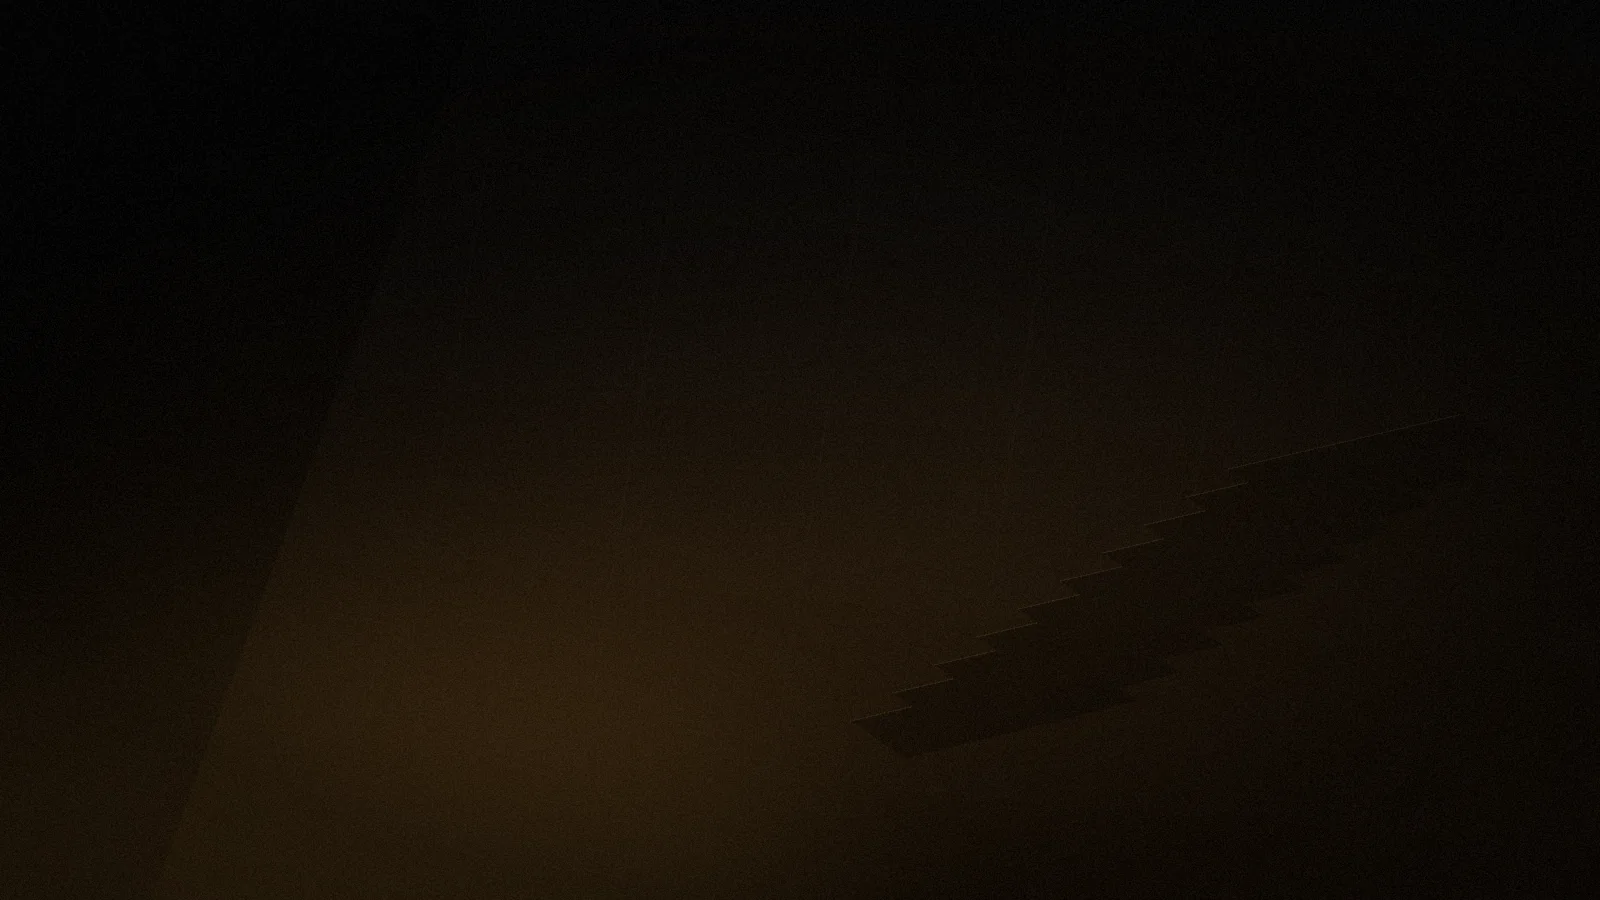
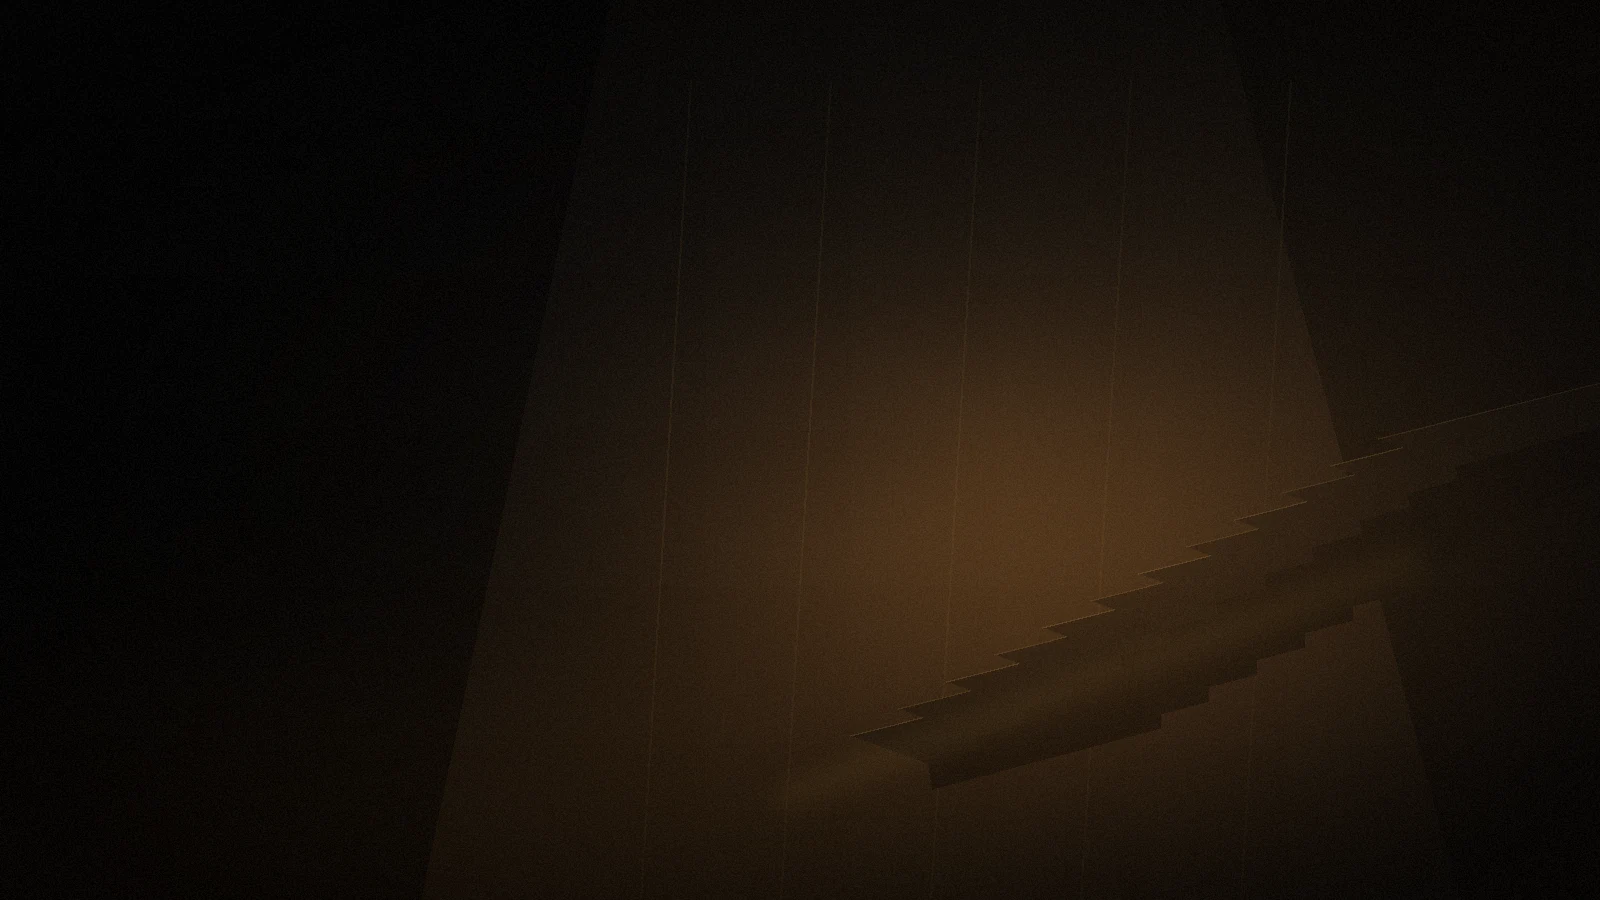
Clean calculator preview diagrams and background

Changed region(s): [[0.4688, 0.28, 0.9062, 0.8711], [0.0938, 0.56, 0.3125, 1.0], [0.0312, 0.9022, 0.0625, 0.9644]]

diff --git a/docs/calculator-stepwise-preview.css b/docs/calculator-stepwise-preview.css
@@ -45,7 +45,7 @@ body::after {
 
 body::before {
   background:
-    linear-gradient(180deg, rgba(0, 0, 0, 0.68) 0%, rgba(0, 0, 0, 0.55) 46%, rgba(0, 0, 0, 0.74) 100%),
+    linear-gradient(180deg, rgba(0, 0, 0, 0.58) 0%, rgba(0, 0, 0, 0.48) 46%, rgba(0, 0, 0, 0.68) 100%),
     url("./assets/calculator-preview/calculator-premium-bg.webp") center / cover no-repeat,
     linear-gradient(135deg, #030302 0%, #11100d 54%, #050403 100%);
   z-index: -2;
@@ -53,9 +53,9 @@ body::before {
 
 body::after {
   background:
-    radial-gradient(ellipse at 50% 50%, transparent 0%, transparent 48%, rgba(0, 0, 0, 0.58) 100%),
+    radial-gradient(ellipse at 50% 50%, transparent 0%, transparent 48%, rgba(0, 0, 0, 0.48) 100%),
     radial-gradient(circle at 16% 92%, rgba(201, 164, 92, 0.16), transparent 28rem),
-    linear-gradient(180deg, rgba(0, 0, 0, 0.08), rgba(0, 0, 0, 0.35));
+    linear-gradient(180deg, rgba(0, 0, 0, 0.06), rgba(0, 0, 0, 0.26));
   z-index: -1;
 }
 
@@ -741,22 +741,35 @@ button {
 
 .measure-diagram {
   background:
-    linear-gradient(135deg, transparent 24%, rgba(201, 184, 156, 0.28) 24.3% 24.8%, transparent 25%),
-    linear-gradient(90deg, transparent 10%, rgba(226, 173, 73, 0.95) 10.3% 10.8%, transparent 11%),
-    linear-gradient(0deg, transparent 79%, rgba(226, 173, 73, 0.95) 79.3% 80%, transparent 80.2%),
-    repeating-linear-gradient(0deg, transparent 0 15px, rgba(201, 184, 156, 0.18) 16px 17px),
-    repeating-linear-gradient(90deg, transparent 0 15px, rgba(201, 184, 156, 0.14) 16px 17px);
+    radial-gradient(circle at 78% 20%, rgba(201, 164, 92, 0.1), transparent 8rem),
+    linear-gradient(145deg, rgba(18, 16, 12, 0.94), rgba(5, 5, 4, 0.98));
+  overflow: hidden;
 }
 
 .measure-diagram::before {
-  background: repeating-linear-gradient(0deg, transparent 0 9px, #d1c7b8 10px 11px), linear-gradient(135deg, transparent 35%, rgba(201, 184, 156, 0.28) 36% 37%, transparent 38%);
-  bottom: 18px;
+  background: none;
+  border-bottom: 2px solid rgba(209, 199, 184, 0.76);
+  border-left: 2px solid rgba(209, 199, 184, 0.76);
+  bottom: 30px;
   content: "";
-  height: 62px;
-  left: 42%;
+  height: 54px;
+  left: 44%;
   position: absolute;
-  transform: skewX(-18deg);
-  width: 78px;
+  transform: skewX(-24deg);
+  width: 86px;
+}
+
+.measure-diagram::after {
+  background:
+    linear-gradient(90deg, rgba(226, 173, 73, 0.95), rgba(226, 173, 73, 0.95)),
+    linear-gradient(0deg, rgba(226, 173, 73, 0.95), rgba(226, 173, 73, 0.95));
+  background-position: 11% 79%, 11% 20%;
+  background-repeat: no-repeat;
+  background-size: 80% 2px, 2px 68%;
+  content: "";
+  inset: 0;
+  opacity: 0.95;
+  position: absolute;
 }
 
 .measure-diagram span {
@@ -793,19 +806,45 @@ button {
 
 .stair-outline {
   background:
-    linear-gradient(155deg, transparent 43%, rgba(226, 173, 73, 0.8) 43.5% 44.4%, transparent 45%),
-    repeating-linear-gradient(153deg, transparent 0 15px, #887f73 15px 17px, transparent 17px 29px),
-    linear-gradient(23deg, transparent 46%, rgba(201, 184, 156, 0.26) 46.4% 47%, transparent 47.5%);
+    radial-gradient(circle at 72% 22%, rgba(201, 164, 92, 0.1), transparent 7rem),
+    linear-gradient(145deg, rgba(18, 15, 11, 0.94), rgba(5, 5, 4, 0.98));
+  overflow: hidden;
 }
 
+.stair-outline::before {
+  border-bottom: 2px solid rgba(209, 199, 184, 0.74);
+  border-left: 2px solid rgba(209, 199, 184, 0.74);
+  border-top: 2px solid rgba(209, 199, 184, 0.58);
+  bottom: 28px;
+  content: "";
+  height: 46px;
+  left: 19%;
+  position: absolute;
+  transform: skewX(-22deg);
+  width: 52%;
+}
+
+.stair-outline::after {
+  background:
+    linear-gradient(90deg, rgba(226, 173, 73, 0.95), rgba(226, 173, 73, 0.72)),
+    linear-gradient(90deg, rgba(209, 199, 184, 0.52), rgba(209, 199, 184, 0.12));
+  background-position: 23% 66%, 23% 43%;
+  background-repeat: no-repeat;
+  background-size: 54% 3px, 45% 1px;
+  content: "";
+  inset: 0;
+  position: absolute;
+  transform: skewY(-14deg);
+}
 
 .stair-outline small {
-  bottom: 35px;
+  bottom: 32px;
   color: var(--muted);
   font-size: 0.58rem;
   position: absolute;
-  right: 28px;
-  width: 52px;
+  right: 22px;
+  width: 58px;
+  z-index: 1;
 }
 
 .material-list > div,
@@ -866,20 +905,35 @@ button {
 
 .railing-diagram {
   background:
-    linear-gradient(145deg, transparent 48%, rgba(226, 173, 73, 0.88) 48.3% 49%, transparent 49.4%),
-    repeating-linear-gradient(153deg, transparent 0 16px, #887f73 16px 18px, transparent 18px 31px);
+    radial-gradient(circle at 82% 24%, rgba(201, 164, 92, 0.12), transparent 7rem),
+    linear-gradient(145deg, rgba(18, 15, 11, 0.94), rgba(5, 5, 4, 0.98));
+  overflow: hidden;
 }
 
 .railing-diagram::before {
-  border-left: 1px solid rgba(226, 173, 73, 0.8);
-  border-top: 1px solid rgba(226, 173, 73, 0.8);
+  border-bottom: 2px solid rgba(209, 199, 184, 0.72);
+  border-left: 2px solid rgba(209, 199, 184, 0.72);
+  bottom: 34px;
   content: "";
-  height: 85px;
-  left: 27%;
+  height: 48px;
+  left: 18%;
   position: absolute;
-  top: 36px;
-  transform: skewY(-22deg);
-  width: 110px;
+  transform: skewX(-24deg);
+  width: 62%;
+}
+
+.railing-diagram::after {
+  background:
+    linear-gradient(90deg, rgba(226, 173, 73, 0.98), rgba(226, 173, 73, 0.72)),
+    linear-gradient(90deg, rgba(209, 199, 184, 0.5), rgba(209, 199, 184, 0.16)),
+    linear-gradient(90deg, rgba(209, 199, 184, 0.4), rgba(209, 199, 184, 0.12));
+  background-position: 22% 50%, 22% 68%, 22% 82%;
+  background-repeat: no-repeat;
+  background-size: 64% 3px, 54% 1px, 44% 1px;
+  content: "";
+  inset: 0;
+  position: absolute;
+  transform: skewY(-16deg);
 }
 
 .summary-layout dl {
